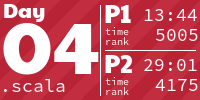
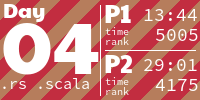
Day 4 2023

diff --git a/src/y2023/day4.rs b/src/y2023/day4.rs
@@ -1,0 +1,126 @@
+use std::{
+    collections::BTreeSet,
+    io::{self, BufRead},
+};
+
+use nom::{
+    bytes::complete::tag,
+    character::complete::{self, newline, space1},
+    multi::separated_list1,
+    sequence::{delimited, separated_pair, tuple},
+    IResult,
+};
+
+use crate::aoc::day::{DayParser, DaySolution};
+
+pub const TITLE: &str = "Scratchcards";
+
+#[derive(Debug)]
+struct Card {
+    _id: u16,
+    winning_numbers: BTreeSet<u8>,
+    numbers: BTreeSet<u8>,
+}
+
+pub struct Solution {
+    cards: Vec<Card>,
+}
+
+impl DayParser for Solution {
+    fn with_input(input: &mut dyn BufRead) -> Self {
+        let input = io::read_to_string(input).unwrap();
+        let (_, cards) = cards(input.as_str()).unwrap();
+        Self { cards }
+    }
+}
+
+fn cards(input: &str) -> IResult<&str, Vec<Card>> {
+    separated_list1(newline, card)(input)
+}
+
+fn card(input: &str) -> IResult<&str, Card> {
+    let (input, id) = delimited(
+        tuple((tag("Card"), space1)),
+        complete::u16,
+        tuple((tag(":"), space1)),
+    )(input)?;
+    let (input, (winning_numbers, numbers)) =
+        separated_pair(numbers, tuple((space1, tag("|"), space1)), numbers)(input)?;
+    Ok((
+        input,
+        Card {
+            _id: id,
+            winning_numbers: winning_numbers.into_iter().collect(),
+            numbers: numbers.into_iter().collect(),
+        },
+    ))
+}
+
+fn numbers(input: &str) -> IResult<&str, Vec<u8>> {
+    separated_list1(space1, complete::u8)(input)
+}
+
+impl DaySolution for Solution {
+    fn part1(&self) -> String {
+        self.cards
+            .iter()
+            .map(|card| card.score())
+            .sum::<u32>()
+            .to_string()
+    }
+
+    fn part2(&self) -> String {
+        let mut card_counts = vec![1; self.cards.len()];
+
+        self.cards.iter().enumerate().for_each(|(i, card)| {
+            (1..=card.winning_count()).for_each(|j| {
+                card_counts[i + j] += card_counts[i];
+            })
+        });
+
+        card_counts.iter().sum::<u32>().to_string()
+    }
+}
+
+impl Card {
+    fn winning_count(&self) -> usize {
+        self.numbers.intersection(&self.winning_numbers).count()
+    }
+
+    fn score(&self) -> u32 {
+        match self.winning_count().checked_sub(1) {
+            None => 0,
+            Some(c) => 2u32.pow(c as u32),
+        }
+    }
+}
+
+#[cfg(test)]
+mod tests {
+    use super::*;
+    use crate::input;
+
+    #[test]
+    fn test_part1_example() {
+        let solution = Solution::with_input(input!(example));
+        assert_eq!(solution.part1(), "13");
+    }
+
+    #[test]
+    fn test_part1_input() {
+        let solution = Solution::with_input(input!(input));
+        assert_eq!(solution.part1(), "21919");
+    }
+
+    #[test]
+    fn test_part2_example() {
+        let solution = Solution::with_input(input!(example));
+        assert_eq!(solution.part2(), "30");
+    }
+
+    #[test]
+    fn test_part2_input() {
+        let solution = Solution::with_input(input!(input));
+        assert_eq!(solution.part2(), "9881048");
+    }
+}

diff --git a/benches/solutions.rs b/benches/solutions.rs
@@ -63,5 +63,5 @@ benchmarks!(
     (Benchmark2016 / y2016: day1),
     (Benchmark2021 / y2021: day1),
     (Benchmark2022 / y2022: day1, day3, day4, day6, day10, day13, day16, day17, day23, day24, day25),
-    (Benchmark2023 / y2023: day1, day2, day3),
+    (Benchmark2023 / y2023: day1, day2, day3, day4),
 );

diff --git a/src/lib.rs b/src/lib.rs
@@ -62,5 +62,5 @@ aoc_solutions!(
     y2016: day1;
     y2021: day1;
     y2022: day1, day3, day4, day6, day10, day13, day16, day17, day23, day24, day25;
-    y2023: day1, day2, day3;
+    y2023: day1, day2, day3, day4;
 );

diff --git a/README.md b/README.md
@@ -3,7 +3,7 @@ Rust solutions for [Advent of Code](http://adventofcode.com/). My scala solution
 
 <!-- AOC TILES BEGIN -->
 <h1 align="center">
-  2023 - 8 ⭐
+  2023 - 18 ⭐
 </h1>
 <a href="src/y2023/day1.rs">
   <img src="AoCTiles/2023/01.png" width="161px">
@@ -14,8 +14,23 @@ Rust solutions for [Advent of Code](http://adventofcode.com/). My scala solution
 <a href="src/y2023/day3.rs">
   <img src="AoCTiles/2023/03.png" width="161px">
 </a>
-<a href="https://github.com/SuperTux88/adventofcode/blob/main/src/main/scala/adventofcode/y2023/Day4.scala">
+<a href="src/y2023/day4.rs">
   <img src="AoCTiles/2023/04.png" width="161px">
+</a>
+<a href="https://github.com/SuperTux88/adventofcode/blob/main/src/main/scala/adventofcode/y2023/Day5.scala">
+  <img src="AoCTiles/2023/05.png" width="161px">
+</a>
+<a href="https://github.com/SuperTux88/adventofcode/blob/main/src/main/scala/adventofcode/y2023/Day6.scala">
+  <img src="AoCTiles/2023/06.png" width="161px">
+</a>
+<a href="https://github.com/SuperTux88/adventofcode/blob/main/src/main/scala/adventofcode/y2023/Day7.scala">
+  <img src="AoCTiles/2023/07.png" width="161px">
+</a>
+<a href="https://github.com/SuperTux88/adventofcode/blob/main/src/main/scala/adventofcode/y2023/Day8.scala">
+  <img src="AoCTiles/2023/08.png" width="161px">
+</a>
+<a href="https://github.com/SuperTux88/adventofcode/blob/main/src/main/scala/adventofcode/y2023/Day9.scala">
+  <img src="AoCTiles/2023/09.png" width="161px">
 </a>
 <h1 align="center">
   2022 - 50 ⭐
